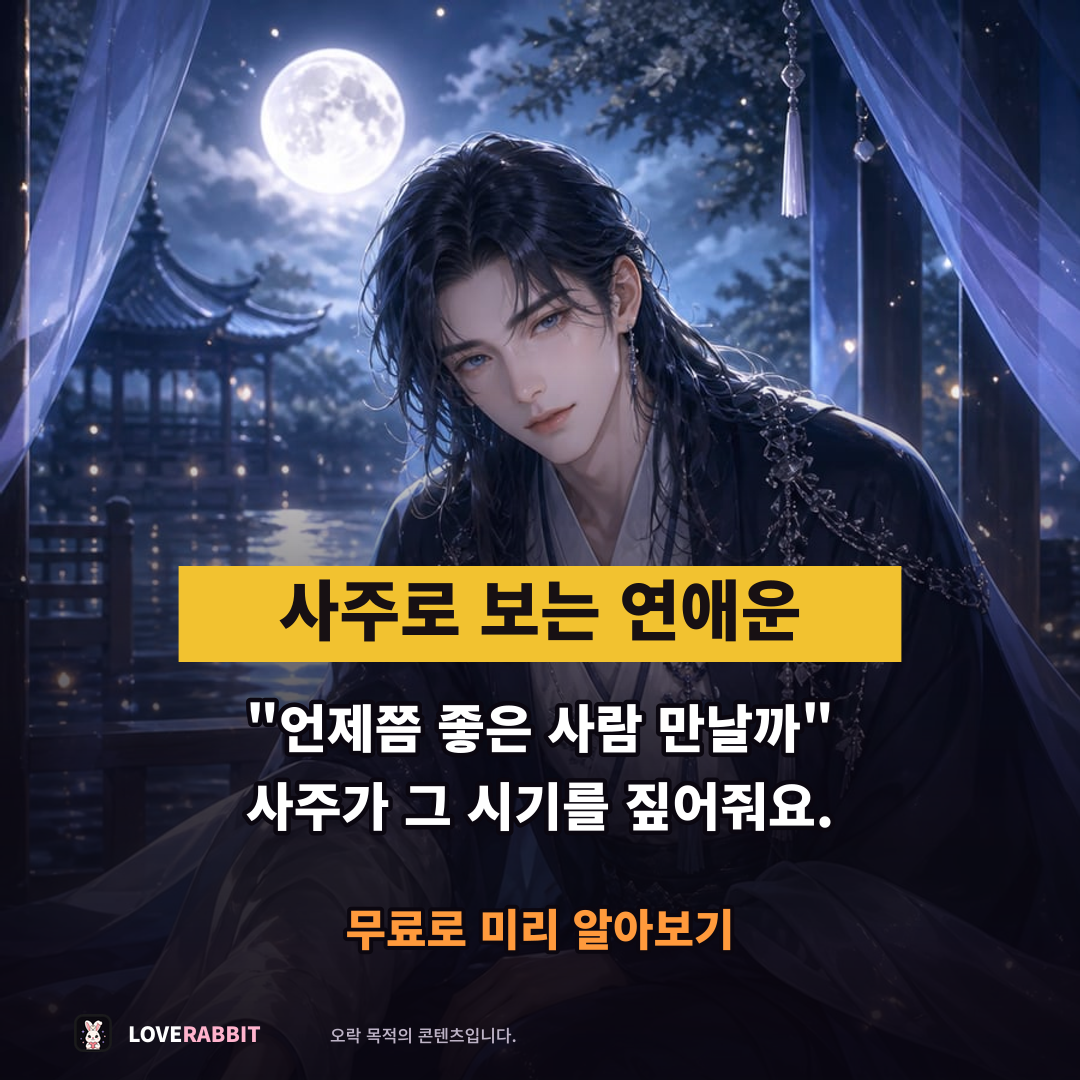
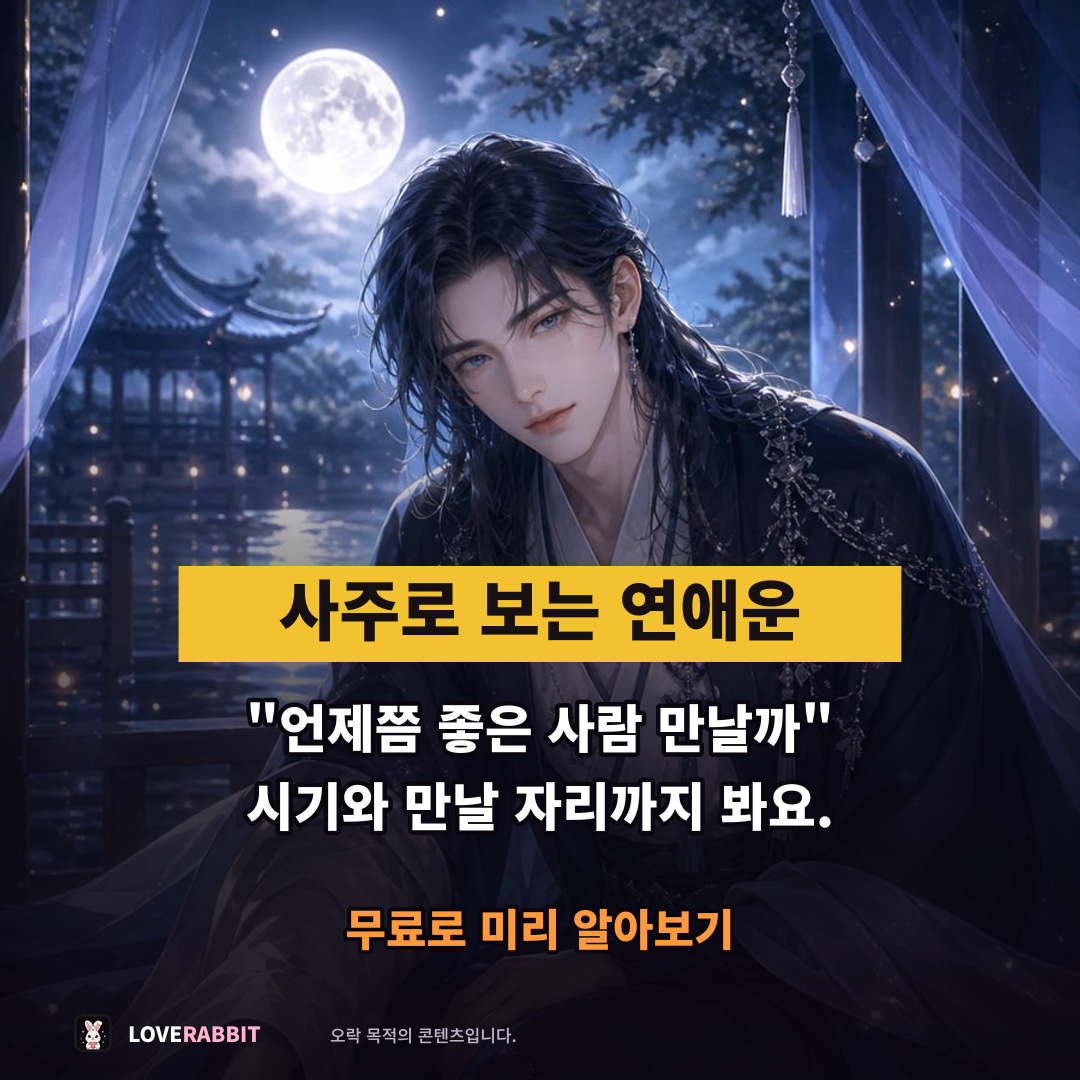
광고 문구를 리포트 목차에서 가져온다
여섯 장의 세 줄을 그 랜딩이 실제로 파는 상품의 목차에 맞춰 다시 썼다.
광고가 약속한 것과 리포트가 주는 것이 다르면 환불로 돌아온다 - 클릭은 늘고
전환은 남지 않는다. 근거가 된 목차를 items 주석과 문서에 적어 뒀다.

05 가 가장 어긋나 있었다. 랜딩 이름은 "속마음" 인데 파는 것은 썸 해부다.
"그 사람 마음" 을 묻던 것을 "왜 멈춰 있는가" 로 바꿨다 - 진도가 안 나가는
이유와 브레이크를 밟는 쪽이 그 리포트의 본체다.

02 03 06 은 같은 상품을 판다. 각도를 갈랐다 - 부딪히는 지점, 주도권, 완급.
셋이 같은 말을 하면 한 광고가 나머지 둘의 예산만 갉아먹는다.

06 에서 "밤" 을 뺐다. 심의에서 걸리는 것은 그 낱말이 밀착 그림과 겹칠 때다.

Changed region(s): [[0.2444, 0.7028, 0.7028, 0.7944]]

diff --git a/marketing/ads/shrine-square-v1/SHRINE_SQUARE_V1.md b/marketing/ads/shrine-square-v1/SHRINE_SQUARE_V1.md
@@ -22,16 +22,42 @@ node marketing/ads/compose-shrine-square-v1.mjs
 
 | | 첫 줄 | 둘째 줄 |
 |---|---|---|
-| 01 | 밤마다 "헤어질까 말까" 반복 | 답은 두 사람 사주에 있어요. |
-| 02 | "우리 잘 맞을까" 매번 같은 질문 | 두 사람 사주부터 맞춰봐요. |
-| 03 | "왜 이 사람한테만 이럴까" | 사주가 그 결을 짚어줘요. |
-| 04 | "언제쯤 좋은 사람 만날까" | 사주가 그 시기를 짚어줘요. |
-| 05 | "그 사람은 무슨 생각일까" | 사주로 그 마음을 읽어봐요. |
-| 06 | 밤이 되면 달라지는 두 사람 | 사주로 먼저 확인해요. |
+| 01 | 붙잡을지 정리할지 매번 제자리 | 어디서 어긋났는지부터 봐요. |
+| 02 | "잘 맞다가 왜 꼭 그 지점에서" | 부딪히는 자리부터 짚어봐요. |
+| 03 | "이 사람한테만 유독 약해져요" | 주도권이 어디 있는지 봐요. |
+| 04 | "언제쯤 좋은 사람 만날까" | 시기와 만날 자리까지 봐요. |
+| 05 | "밀당일까 관심이 없는 걸까" | 멈춰 선 이유부터 봐요. |
+| 06 | 가까워질수록 달라지는 온도 | 완급이 어디서 어긋나는지 봐요. |
 
 첫 줄은 유저가 이미 하고 있는 말이고, 둘째 줄은 **권유지 단정이 아니다.**
 "사주가 이렇다" 로 쓰면 아직 보지도 않은 사람의 사주를 광고에서 못박는 셈이
-된다. 그래서 전부 `-봐요` · `-줘요` 로 끝난다.
+된다. 그래서 전부 `-봐요` 로 끝난다.
+
+## 문구의 근거
+
+세 줄은 **그 랜딩이 파는 상품의 실제 목차**에서 가져왔다
+(`src/lib/products.ts`). 광고가 약속한 것과 리포트가 주는 것이 다르면
+환불로 돌아온다 — 클릭은 늘고 전환은 남지 않는다.
+
+| | 상품 | 근거가 된 목차 |
+|---|---|---|
+| 01 | 이별 부검 리포트 (29,900) | 2장 01 이별의 진짜 사인 규명 · 4장 01 반복해서 걸려 넘어지는 지점 |
+| 02 | 속궁합 사주 (9,900) | 5장 02 다투게 된다면 반드시 이 지점에서 · 5장 01 관계 온도가 식는 위험 구간 |
+| 03 | 속궁합 사주 (9,900) | 3장 02 주도권은 누구에게 있는가 · 4장 01 그 사람이 무너지는 순간 |
+| 04 | 인연 타이밍 (14,900) | 2장 01 인연의 창이 열리는 시기 · 2장 02 만나게 될 가능성이 높은 경로 |
+| 05 | 썸 해부 사주 (12,900) | 1장 02 브레이크를 밟고 있는 쪽은 누구인가 · 2장 01 밀당인가 진심인가 |
+| 06 | 속궁합 사주 (9,900) | 6장 01 권태를 피하는 완급 조절법 · 5장 01 관계 온도가 식는 위험 구간 |
+
+**02 · 03 · 06 은 같은 상품을 판다.** 그래서 각도를 갈랐다 — 02 는 부딪히는
+지점, 03 은 주도권, 06 은 완급. 셋이 같은 말을 하면 한 광고가 나머지 둘의
+예산만 갉아먹는다.
+
+**05 는 랜딩 이름이 "속마음" 이지만 파는 것은 썸 해부다.** 그래서 문구도
+"그 사람 마음" 이 아니라 "왜 멈춰 있는가" 를 묻는다. 진도가 안 나가는
+이유와 브레이크를 밟는 쪽이 그 리포트의 본체다.
+
+**06 에서 "밤" 을 뺐다.** 심의에서 걸리는 것은 그 낱말이 밀착 그림과 겹칠
+때다. 이 소재는 인물 한 명뿐이라 낱말만 덜어도 위험이 크게 준다.
 
 노란 박스와 주황 CTA 는 주제가 바뀌어도 그대로다. 시리즈로 읽히려면 색이
 흔들리면 안 된다 — 바뀌는 것은 인물과 세 줄뿐이다.
